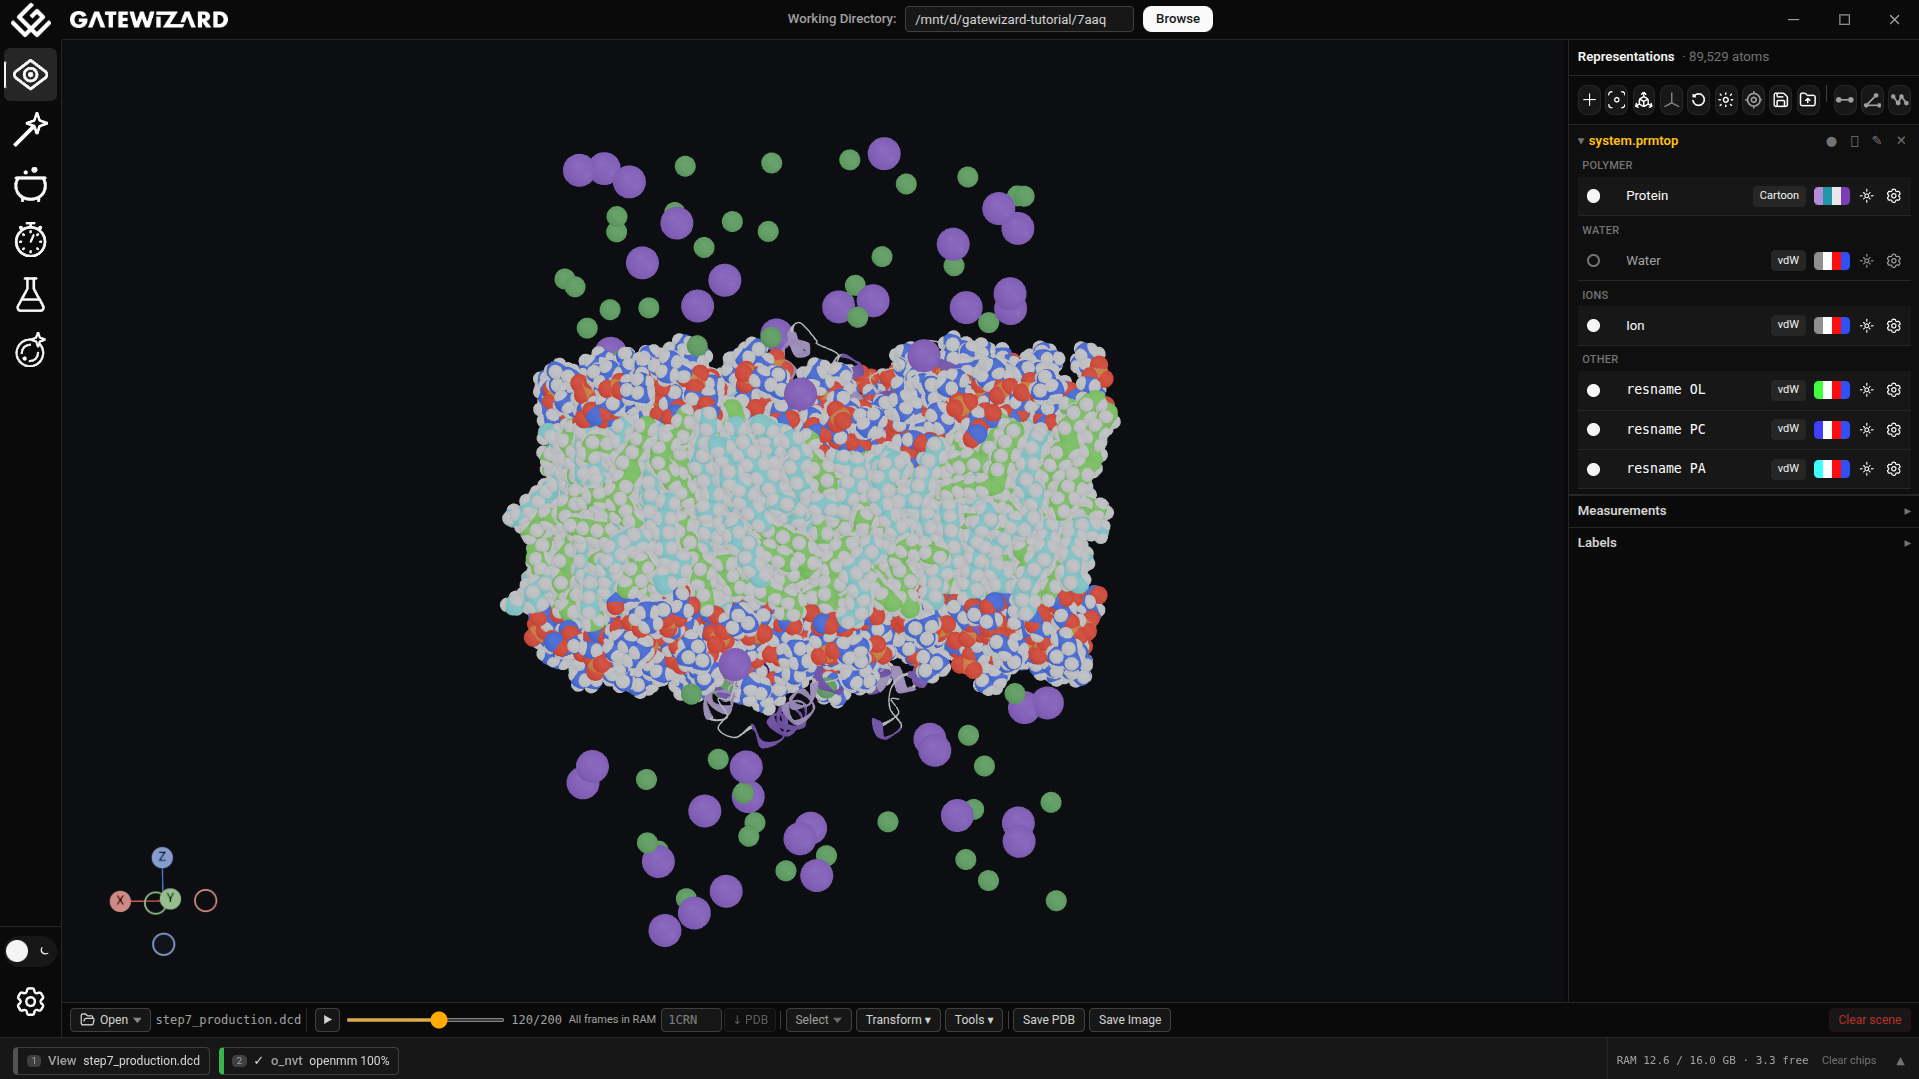
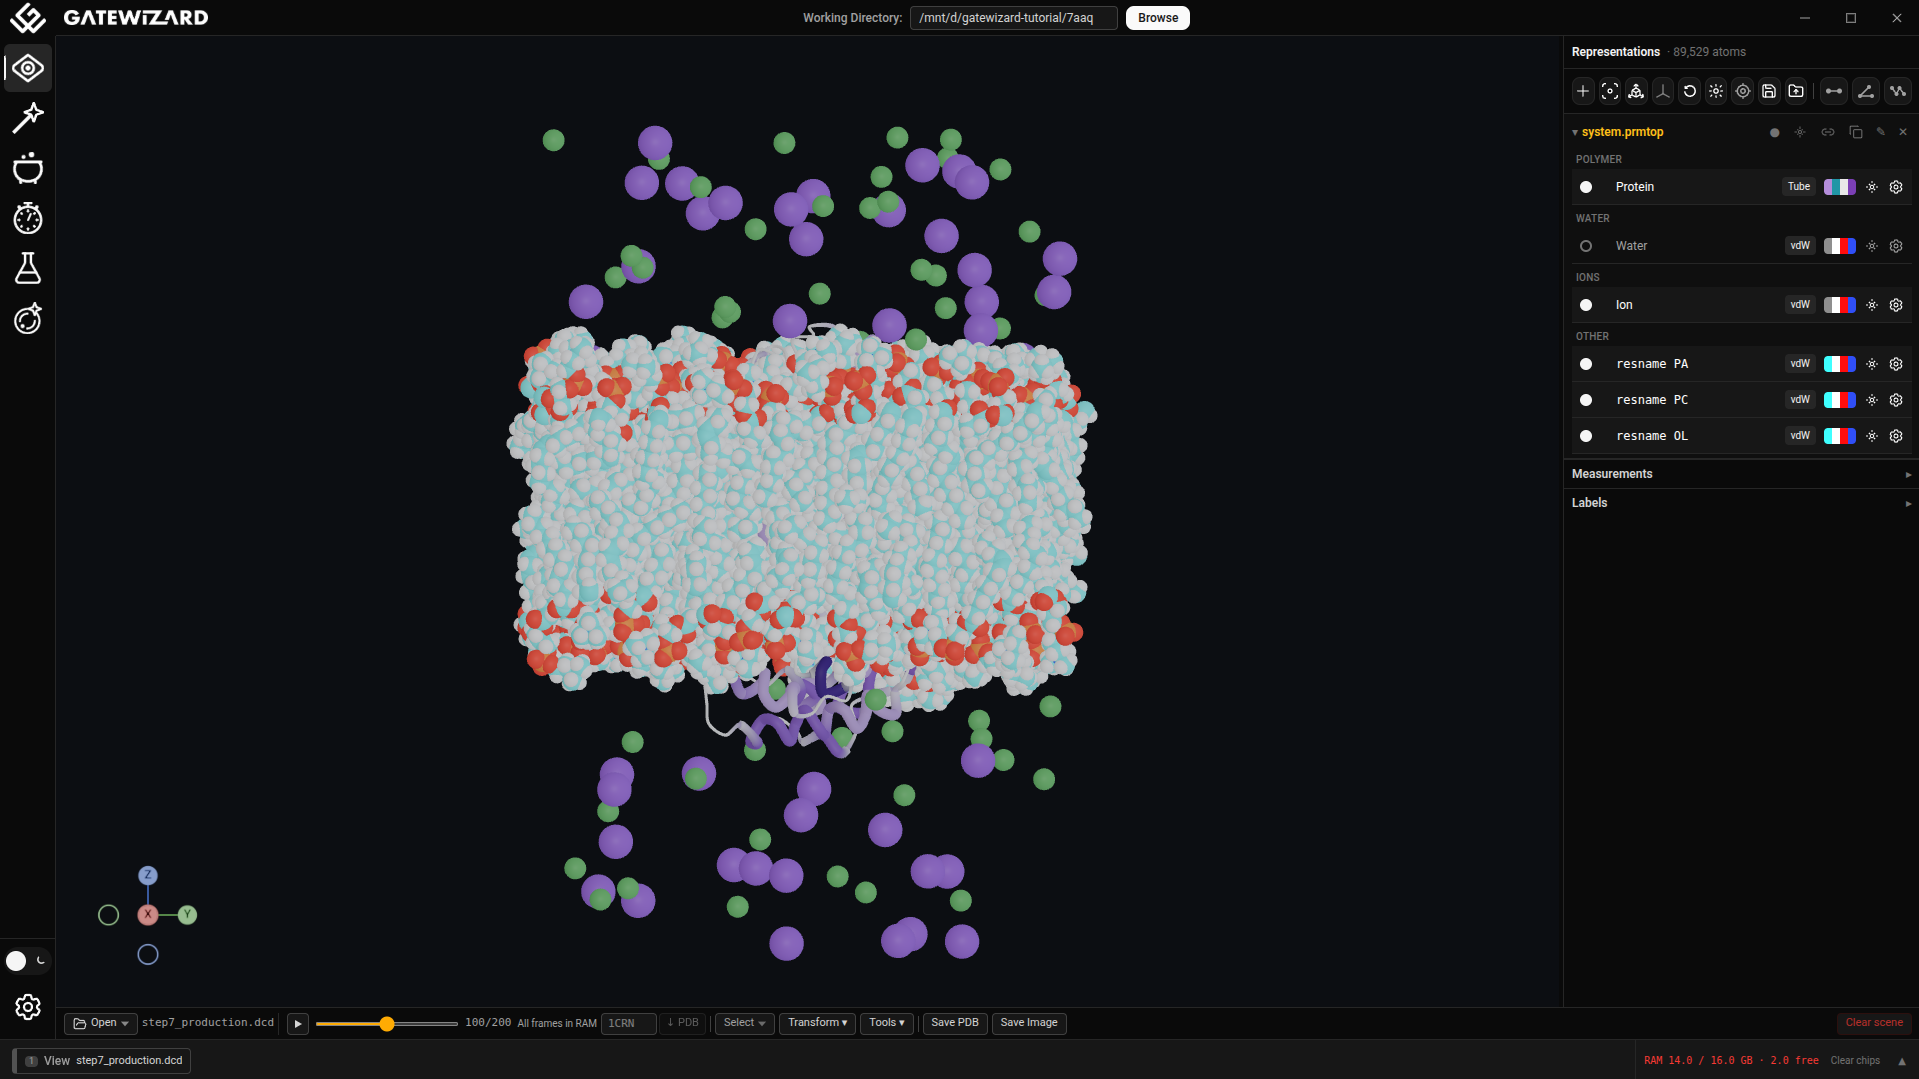
docs: refresh user-guide screenshots and fix heading links
The user guide now uses current screenshots for Builder, Equilibration, Fix PBC, Settings, and Visualize. Links to the GROMACS/CUDA section and the Builder page use the heading ids Zensical actually generates, so they no longer land on the top of the page.

diff --git a/docs/installation.md b/docs/installation.md
@@ -28,7 +28,7 @@ pip install gatewizard
 python -c "import gatewizard; print(gatewizard.__version__)"
 ```
 
-For the **desktop app**, install [gatewizard-gui](https://github.com/franciscoadasme/gatewizard-gui/releases) separately. On first launch the GUI embeds its own micromamba runtime (Python, AmberTools, OpenMM, GROMACS, and `gatewizard` via pip). See [Desktop GUI runtime (GROMACS / CUDA)](#desktop-gui-runtime-gromacs--cuda) below.
+For the **desktop app**, install [gatewizard-gui](https://github.com/franciscoadasme/gatewizard-gui/releases) separately. On first launch the GUI embeds its own micromamba runtime (Python, AmberTools, OpenMM, GROMACS, and `gatewizard` via pip). See [Desktop GUI runtime (GROMACS / CUDA)](#desktop-gui-runtime-gromacs-cuda) below.
 
 ## Alternative: Development Installation
 
@@ -233,7 +233,7 @@ conda install -c conda-forge gromacs -y
 # Optional: use a system CUDA GROMACS / GMXRC instead of the conda CUDA build
 ```
 
-For **gatewizard-gui**, leave the default (CPU GROMACS). Only set `GATEWIZARD_CONDA_GROMACS_CUDA=1` if you explicitly want the timed CUDA attempt. See [Desktop GUI runtime (GROMACS / CUDA)](installation.md#desktop-gui-runtime-gromacs--cuda).
+For **gatewizard-gui**, leave the default (CPU GROMACS). Only set `GATEWIZARD_CONDA_GROMACS_CUDA=1` if you explicitly want the timed CUDA attempt. See [Desktop GUI runtime (GROMACS / CUDA)](installation.md#desktop-gui-runtime-gromacs-cuda).
 
 ### Issue: ImportError with numpy.compat
 

diff --git a/docs/troubleshooting.md b/docs/troubleshooting.md
@@ -479,7 +479,7 @@ A: **OpenMM** can use CUDA when `openmm` + `cudatoolkit` are installed and an NV
 A: Python API is available for scripting (see API documentation).
 
 **Q: conda/micromamba GROMACS CUDA install hangs — do I need to accept a license?**
-A: No. EULA / Terms-of-Service lines in the log are not interactive prompts (`-y` is already used). The hang is almost always the dependency solver. Cancel and install CPU `gromacs`, or for the GUI leave the default / see `GATEWIZARD_CONDA_GROMACS_CUDA` in [Installation](installation.md#desktop-gui-runtime-gromacs--cuda).
+A: No. EULA / Terms-of-Service lines in the log are not interactive prompts (`-y` is already used). The hang is almost always the dependency solver. Cancel and install CPU `gromacs`, or for the GUI leave the default / see `GATEWIZARD_CONDA_GROMACS_CUDA` in [Installation](installation.md#desktop-gui-runtime-gromacs-cuda).
 
 **Q: What trajectory formats are supported?**
 A: DCD, XTC, TRR, NetCDF, and others via MDAnalysis.

diff --git a/docs/api/builder.md b/docs/api/builder.md
@@ -1295,5 +1295,5 @@ config['ligand_params'] = {
 
 - [Preparation Module](preparation.md) - Protonation state analysis
 - [Equilibration Module](equilibration.md) - MD equilibration protocols
-- [User Guide - Builder Tab](../user-guide.md#builder-tab-system-building) - GUI workflow
+- [User Guide - Builder](../user-guide.md#builder) - GUI workflow
 - [Builder examples](https://github.com/maurobedoya/gatewizard/tree/main/tests/builder_examples) - Numbered scripts included on this page

diff --git a/docs/index.md b/docs/index.md
@@ -101,3 +101,16 @@ THE SOFTWARE IS PROVIDED "AS IS", WITHOUT WARRANTY OF ANY KIND, EXPRESS OR IMPLI
 
 - **Constanza González**
 - **Mauricio Bedoya**
+
+## Citation
+
+If you use GateWizard in your research, please cite:
+
+```
+[Citation information to be added]
+```
+
+---
+
+*Last updated: September 2026*
+
